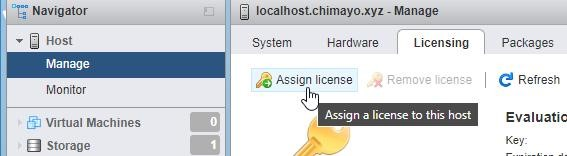
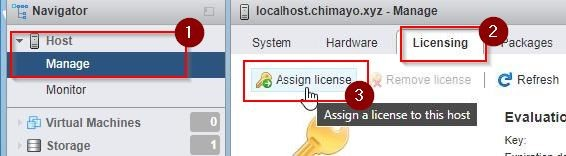
screenshot edit (license)

diff --git a/firstConfig.md b/firstConfig.md
@@ -212,9 +212,13 @@ Once your PC and ESXI management webserver are on the network, open a web browse
 * congrats, you are now able to fully configure your server and VMs!
 * you can safely unplug the display and keyboard from the server - you will only need to connect them if you add disks later, otherwise all configuration will be done via the ESXI webgui
 
-### License ESXI
+### **License ESXI**
 * If it's not already expanded, click 'navigator' on the left side to expand the main menu
-![](https://github.com/mynah22/Homelab-Guides/raw/main/screenshots/firstConfig/ESXIExpandNavigator.jpg) click Manage (under Host) > licensing > assign license, and enter your ESXI 6 license key (you may have to expand the Navigator menu)
+![](https://github.com/mynah22/Homelab-Guides/raw/main/screenshots/firstConfig/ESXIExpandNavigator.jpg) 
+* click Manage (under Host) > licensing > assign license, and enter your ESXI 6 license key (screenshots 
+[1](https://github.com/mynah22/Homelab-Guides/raw/main/screenshots/firstConfig/esxiLicenseServer.jpg)
+[2](https://github.com/mynah22/Homelab-Guides/raw/main/screenshots/firstConfig/esxilicenseConfirm.jpg)
+[3](https://github.com/mynah22/Homelab-Guides/raw/main/screenshots/firstConfig/esxilicenseConfirm2.jpg))
 
     1. Set up networking:
         * We will have to configure virtual networks in order to expose physical ports to our VMs
